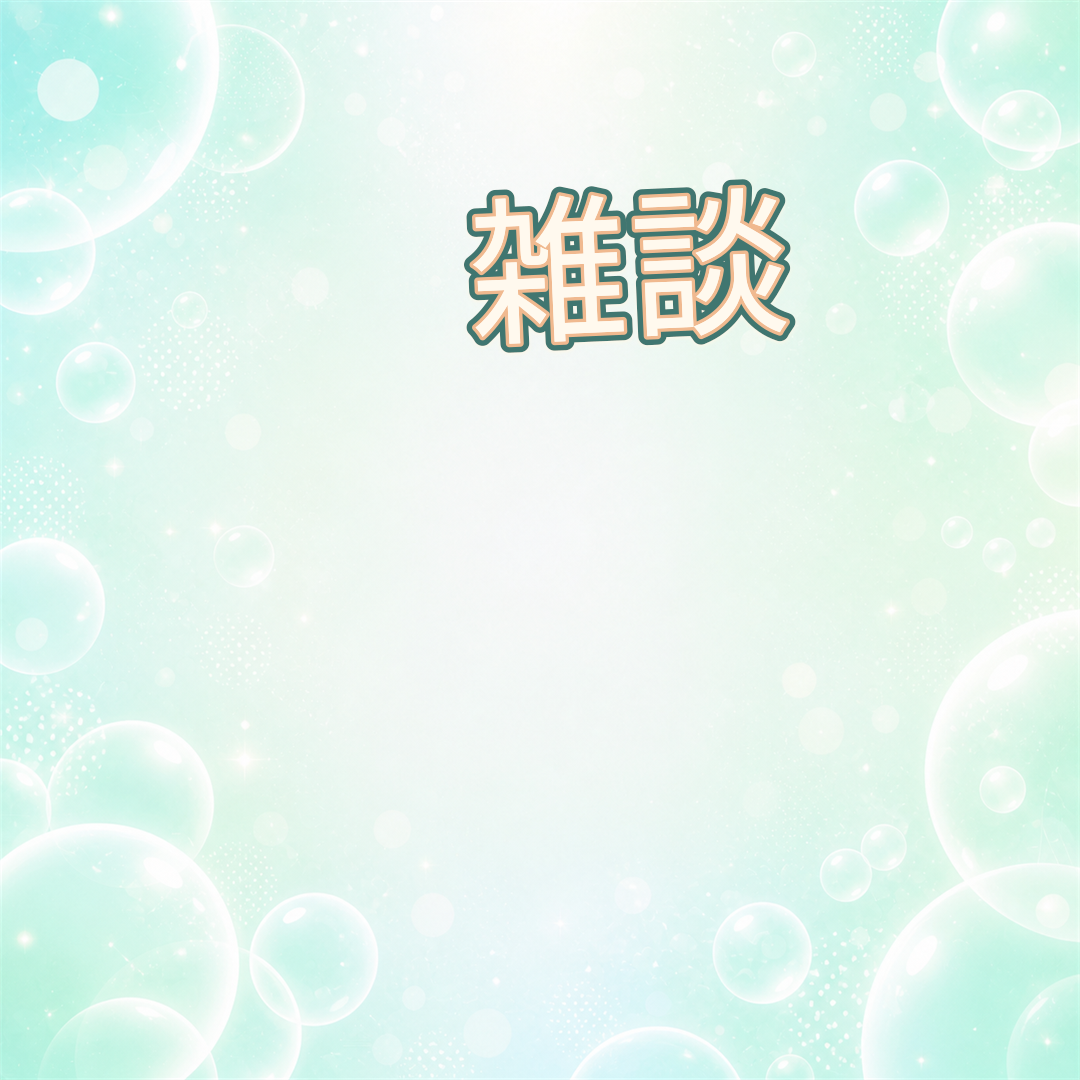
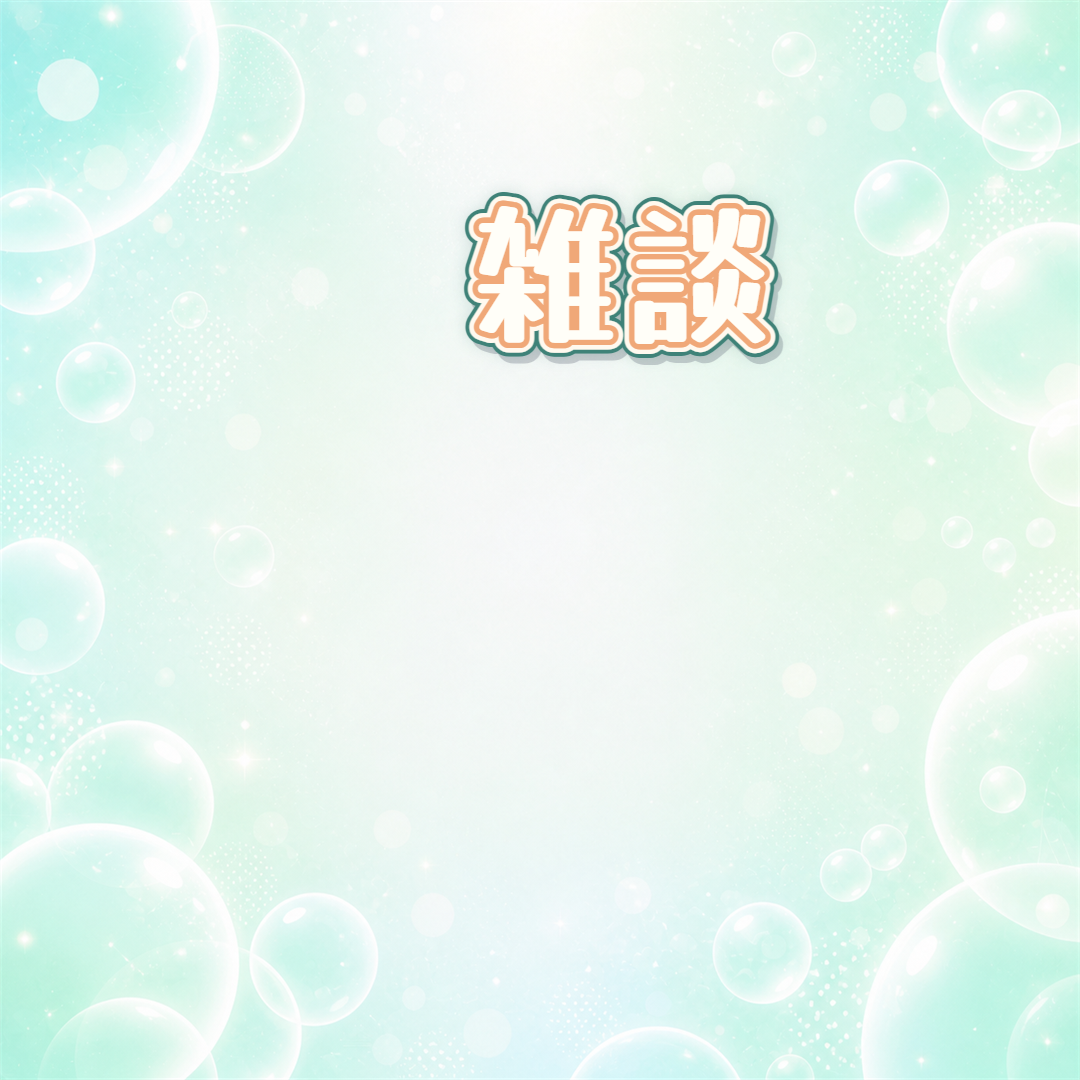
Add IRIAM chatting title colorways

Changed region(s): [[0.4278, 0.1528, 0.7333, 0.3361]]

diff --git a/task.md b/task.md
@@ -317,6 +317,23 @@
        - visual result: 5色とも soft_cloud 1:1 背景上で読める。装飾要素は追加せず、可読性用の fill / stroke / light outline のみに限定。
        - verification result: 5 title images are 760 x 320 PNG RGBA with transparent pixels. 5 previews are 1080 x 1080 PNG RGBA.
        - remaining risk: preview は既存 `karaoke` soft_cloud 背景での確認用。`初配信` 専用 1:1 背景や preset body にはまだ接続していない。
+     - 2026-05-24 `雑談` 5色 title image slice:
+       - created title images:
+         - `public/assets/images/thumbnail-editor/iriam-square/chatting/titles/chatting-square-title-pink-blue-v1.png`
+         - `public/assets/images/thumbnail-editor/iriam-square/chatting/titles/chatting-square-title-blue-v1.png`
+         - `public/assets/images/thumbnail-editor/iriam-square/chatting/titles/chatting-square-title-yellow-v1.png`
+         - `public/assets/images/thumbnail-editor/iriam-square/chatting/titles/chatting-square-title-purple-v1.png`
+         - `public/assets/images/thumbnail-editor/iriam-square/chatting/titles/chatting-square-title-mint-v1.png`
+       - created previews:
+         - `docs/mockups/thumbnail-editor-iriam-square-title-images/chatting/chatting-title-yusei-magic-pink-blue-on-pop-bubble-preview.png`
+         - `docs/mockups/thumbnail-editor-iriam-square-title-images/chatting/chatting-title-yusei-magic-blue-on-pop-bubble-preview.png`
+         - `docs/mockups/thumbnail-editor-iriam-square-title-images/chatting/chatting-title-yusei-magic-yellow-on-pop-bubble-preview.png`
+         - `docs/mockups/thumbnail-editor-iriam-square-title-images/chatting/chatting-title-yusei-magic-purple-on-pop-bubble-preview.png`
+         - `docs/mockups/thumbnail-editor-iriam-square-title-images/chatting/chatting-title-yusei-magic-mint-on-pop-bubble-preview.png`
+       - visual result: 5色とも `pop_bubble` 1:1 背景上で読める。title image 内の星、ハート、リボン、小丸、カーブ線などは追加せず、可読性用の fill / stroke / shadow / light outline のみに限定。
+       - verification result: 5 title images are 760 x 320 PNG RGBA with transparent pixels. 5 previews are 1080 x 1080 PNG RGBA.
+       - remaining risk: preview は既存 `karaoke` `pop_bubble` 背景での確認用。`雑談` 専用 1:1 背景、preset body、settings modal option にはまだ接続していない。
+       - next genre candidate: `耐久`。`Dela Gothic One` 400 で5色展開し、stroke / shadow の勢いを `pop_bubble` または `dark_cute` 背景上で確認する。
    - decoration:
      - 吹き出し、雲、星、ハート、リボン、きらきら、手描きライン、小ラベル。
      - 16:9 preset にも流用できる generic material として登録する。
